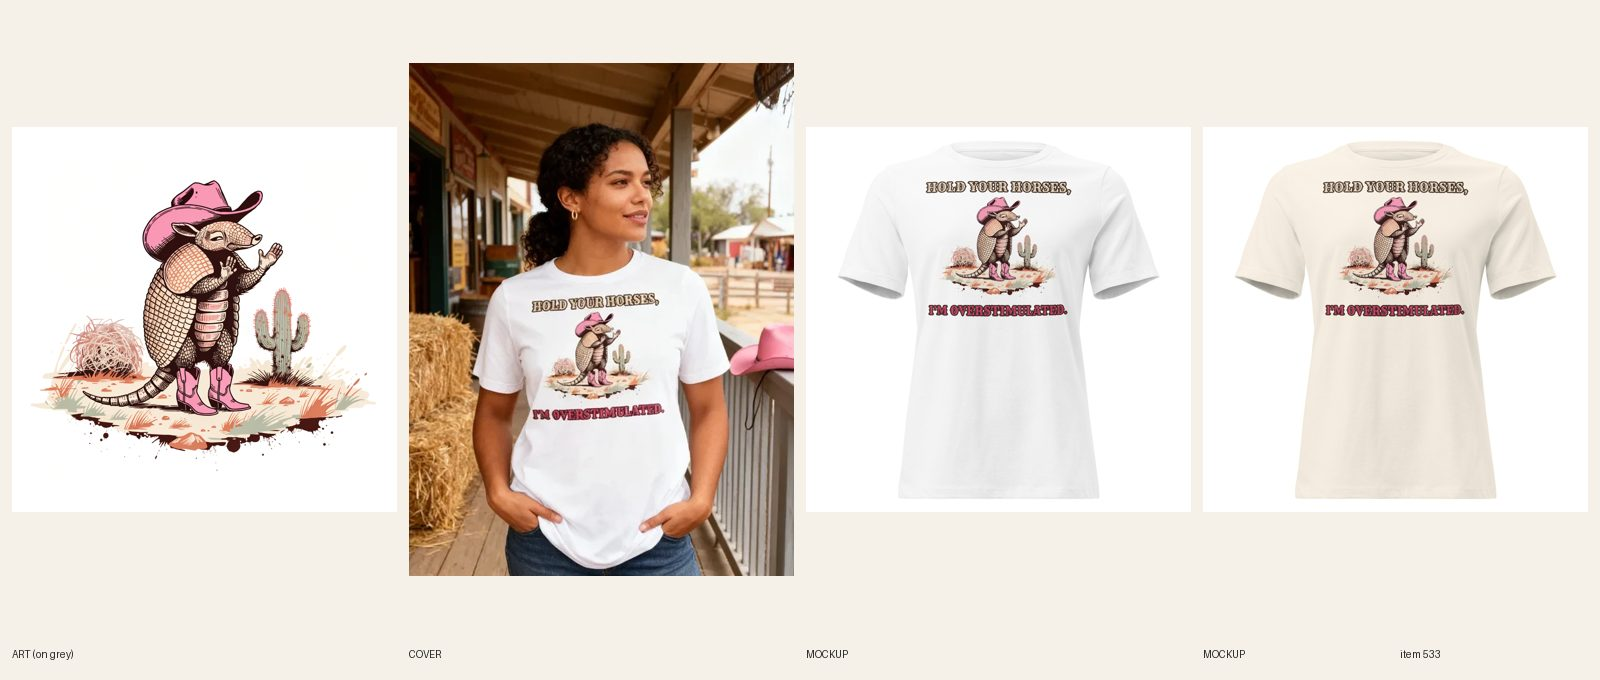
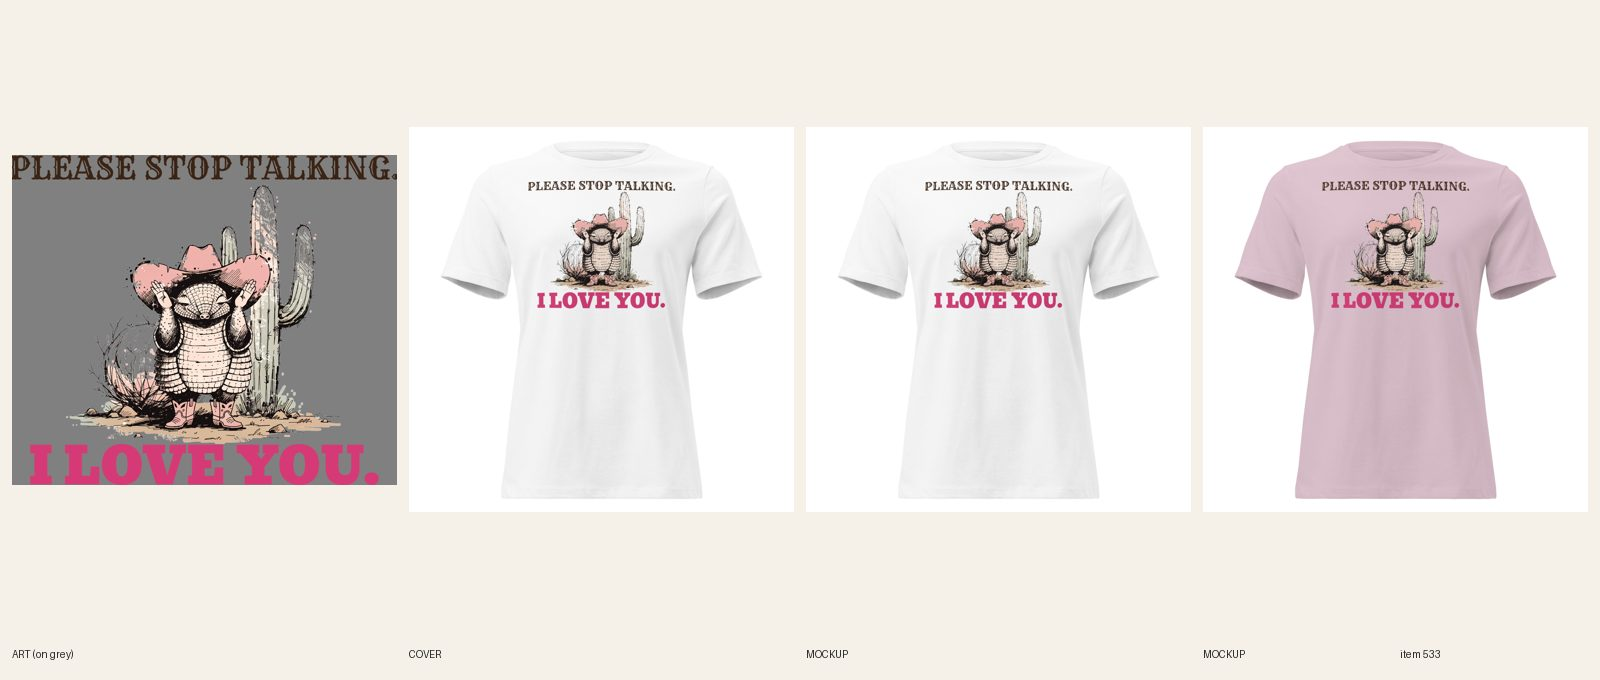
[E] review 533 redid #533 Women's Western tee (line + type: PLEASE STOP TALKING. I LOVE YOU., new cowgirl armadillo art, one dark-ink file on 5 light colors, 30/30 synced, copy updated, plain product shot). REVIEW. fal $0.04.

diff --git a/docs/intake-log.md b/docs/intake-log.md
@@ -1,5 +1,7 @@
 2026-10-20 04:46 UTC — [H] Helper run: Telegram inbox empty (getUpdates returned 0 updates; nothing to consume). Audit 607 live products: 0 errors, 31 warnings left alone (polish); committed docs/cohesion-audit.md. Category check: 0 products without a Shopify category. Site check: #548, #578, #618 all 200. Stuck-work check: nothing BUILDING over 3h (#257 and #258 claimed 04:07); lane A lock line from 02:28 is over 2h old but lane A committed at 04:06, so Telegram alert sent once (reply pending from Sam). Daily summary not due (before 12:00 UTC). Lock released.
 2026-10-20 04:57 UTC — [B] Builder run: redid #382 Women's Baseball Mom crewneck (line + type: HIS BATTING AVERAGE / IS MY PERSONALITY., new camp-chair art, Oswald, Sand + Ash dark-ink file, 12/12 synced). REVIEW. fal $0.04.
+RUNNING helper since 2026-10-20 04:44 UTC
+2026-10-20 05:03 UTC — [E] Builder run: redid #533 Women's Western tee (line + type: PLEASE STOP TALKING. I LOVE YOU., new cowgirl armadillo art, one dark-ink file on 5 light colors, 30/30 synced, copy updated, plain product shot). REVIEW. fal $0.04.
 2026-10-20 04:29 UTC — [D] Director run (RESUMED). LIVE 6 (cap): #477 #481 #501 #558 #579 #632 (approved 02:16 and held; all already ACTIVE on Online Store, Headless, Google & YouTube; audit --handle PASS 0 warn each). Reviewed 20 new redo sheets side by side with 493 and 483: approved and held 15 (#221 #237 #246 #251 #252 #323 #365 #386 #395 #409 #443 #552 #554 #561 #635); REDO 5: #362 #404 #440 (punchline set at 45–60% of the headline's width; new rulebook line under R3.7.8, 4 hits in one run), #366 (SHELLFISH sound-alike pun, R3.1), #388 (empty calendar boxes read as free, R5.3.4). Shopify: 9 approved redos retitled to their printed lines (#221 #237 #246 #251 #252 #323 #552 #554 #561, handles unchanged) and 3 metas trimmed under 155 (#323 #554 #561). Inbox (Sam's Black Friday order): /black-friday/ built and live (200; 8 A-grade doorbusters, 5 FAQs, schema), linked from the sale banner, footer and gift guides; sweatpants audit support + rulebook lines + 5 lane C briefs #711–#715 (builder card: ahead of lane C REDOs, one per run). Telegram: one message to Sam with the page link and two decisions (the Black Friday deal; a 10% set discount). No digest (not due). READY: A 12, B 12, C 12 (+5 sweatpants), E 12. Helper note: `astro check` reports 2 duplicate keys in src/data/covers.ts (mens-pirate-pillaging-is-a-young-mans-game-hoodie line 419, womens-crochet-no-i-wont-make-you-one-hoodie line 564); the build passes, but the later entry silently wins. Held for next runs, in order: #649 #205 #217 #219 #326 #356 #358 #650, then the 15 above, then the 31 add-ons. Lock released.
 2026-10-20 04:50 UTC — [B] Builder run: redid #318 Women's Christmas bow crewneck (line + type: DO NOT OPEN / UNTIL DEC. 26., same tartan bow art, Bowlby One, 4 light colors one dark-ink file, 24/24 synced). REVIEW. fal $0.
 2026-10-20 04:41 UTC — [B] Builder run: redid #396 Women's Western crewneck (line + type: PINKIES UP, / SPURS ON., same teacup art, Rye, Navy + Sand light files, 12/12 synced). REVIEW. fal $0.

diff --git a/docs/pipeline/533-western-tee-hold-your-horses-overstimulated.md b/docs/pipeline/533-western-tee-hold-your-horses-overstimulated.md
@@ -1,4 +1,4 @@
-status: REDO
+status: REVIEW
 lane: E
 type: new
 id: 533
@@ -31,3 +31,4 @@ kd: 46
 - 2026-10-18 04:30 UTC [E] builder: synced 30/30 (FW 1650 TOP 75), mockups, cover and review sheet done; REVIEW.
 - 2026-10-18 05:21 UTC director: LIVE. Sheet reviewed (R3/R4/R5/R6/R8/R13.3 pass); Printful file checked on every variant; ACTIVE + Online Store/Headless/Google & YouTube; cohesion-audit --handle PASS (0 warn). Copy: overstimulated shirt cut from 4 to 3 uses (audit stuffing warn).
 - 2026-10-18 17:22 UTC director: QUALITY RESET grade C (new line + type), REDO. The product stays ACTIVE (same handle, URL, title keyword). 1. Line (R3.12, quality-reset 'Lines'): "HOLD YOUR HORSES, / I'M OVERSTIMULATED.": Phrase plus mild aside; small type separate from art. Write 5 candidates, keep the one a stranger laughs at in 3 seconds without backstory; kill lines that only describe the picture; if none of the 5 is funny, PARK it. 2. Quality reset type bar (docs/backlog/quality-reset.md, 'The new bar'): headline at least 90% of the art width, heavy, colors pulled from the art; second line at least 45% of the headline's height, never a thin script on a dark or mid garment; use the lettering as a shape (arch, stacked lockup, words breaking into the art), not a plain bar above and a script line below; no font used on more than 1 in 6 of the last 30 designs. 3. Keep the art if it carries the new line, else one new illustration (R4/R5). New print means a new cover per R6.10, copy line one rewritten for the new joke (R8.3), and a fresh review sheet (R7.7). While quality-reset.md says PAUSED, only lane A builds, and only the samples step 2 names.
+- 2026-10-20 05:03 UTC builder [E]: REDO 533 (C grade, line + type) done on the existing product (stays ACTIVE, handle unchanged). 5 candidates: "PLEASE STOP TALKING. I LOVE YOU."; "Not Rude, Just Overstimulated"; "Too Many People, Too Many Noises"; "Hold Your Horses, I'm Overstimulated" (old); "Small Talk Is A Lot". Kept PLEASE STOP TALKING. / I LOVE YOU. (the tired woman who loves everyone making noise, 3 seconds). One new Recraft call ($0.04): cowgirl armadillo in a pink hat, paws up, cactus and tumbleweed, no words. Rye (PLEASE STOP TALKING., full print width, dark brown) and Bevan (I LOVE YOU., hot pink #d63a76, tallest line). All five colors are light: solid dark-ink file, no cream fill (light file logged). FW 1500 TOP 75, 30/30 synced on the new file per color, back logo kept. 5 fronts replaced in place, alts updated, title/SEO/copy/FAQs rewritten. Cover: handle added to retired-covers.json (plain product shot). Phone-size read OK (the brown top line is the smallest, readable). audit --handle PASS; astro build OK. fal $0.04. Sheet docs/review/533.jpg.
